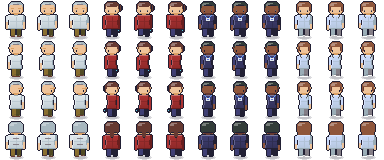
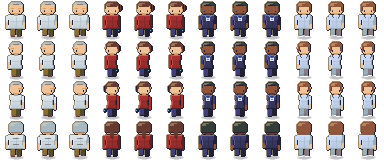
Hue-shift the shading and add selective outlining
Researched how real pixel-art games get a '3D' read without going isometric (which would
mean rebuilding the tile grid, collision math and every asset from scratch, and wasn't
what was actually broken here). Two techniques came up consistently: hue-shifted shading
ramps (shadows lean toward a cool colour, highlights toward a warm one, instead of sliding
straight to black/white) and selective outlining -- breaking the outline's flat dark
colour on the side facing the light. Neither was in use anywhere in this project; every
mix() call shaded toward literal (0,0,0)/(255,255,255), which is exactly what the sources
below call out as reading flat and plasticky.

Added shared shadow_tint/hilite_tint constants (a cool blue-violet and a warm cream) to
both generators and swapped every black/white shading target for them: character torso
falloff, hair sheen, eye catchlights, the key_light() ambient pass every prop already
runs through via standing(), the dado rail bevels, curtain highlights, and the back-wall
overlay's own copies of the same logic.

Selective outlining is the bigger visible change: Px.outline_alpha() (gen_characters.py)
now classifies each outline pixel by which side of the silhouette it borders -- upper-left
edges (facing the established key light) get a warmed, lightened outline tone; lower-right
edges keep the dark one. A flat outline reads as a sticker edge; a two-tone one reads as
[…]

diff --git a/scripts/gen_tileset.py b/scripts/gen_tileset.py
@@ -31,6 +31,12 @@ C = {
     'patient_hair':    (167, 183, 191),
     'patient_hair_lo': (132, 126, 135),
 
+    # Selective-outlining / hue-shift targets, matching gen_characters.py: shadows lean
+    # cool blue-violet, highlights lean warm cream, instead of sliding toward neutral
+    # black/white — a flat lerp-to-white/black is what reads as flat/plasticky.
+    'shadow_tint': (46, 48, 92),
+    'hilite_tint': (255, 226, 168),
+
     # Vinyl flooring — pale, desaturated, slightly green. Deliberately low contrast:
     # the floor is the largest surface on screen and must sit behind the characters.
     'floor':      (214, 226, 236),
@@ -167,9 +173,9 @@ class Tile:
                 if not solid(x, y):
                     continue
                 if not solid(x, y - 1) or not solid(x - 1, y):
-                    self.shade(x, y, (255, 255, 255), top)
+                    self.shade(x, y, C['hilite_tint'], top)
                 elif not solid(x, y + 1) or not solid(x + 1, y):
-                    self.shade(x, y, (40, 48, 52), bottom)
+                    self.shade(x, y, C['shadow_tint'], bottom)
 
     def frame(self, x0, y0, x1, y1, col):
         self.hline(x0, x1, y0, col)
@@ -241,9 +247,9 @@ def wall_lower(seed=2):
     own bevel (a lit top edge, a groove, a shadowed underside), not a single flat line.
     """
     t = Tile(C['wall'])
-    t.hline(0, TD - 1, 0, mix(C['dado'], (255, 255, 255), 0.35))   # rail: lit top edge
+    t.hline(0, TD - 1, 0, mix(C['dado'], C['hilite_tint'], 0.35))   # rail: lit top edge
     t.hline(0, TD - 1, 1, C['dado'])
-    t.hline(0, TD - 1, 2, mix(C['dado'], (0, 0, 0), 0.25))          # groove
+    t.hline(0, TD - 1, 2, mix(C['dado'], C['shadow_tint'], 0.35))          # groove
     t.hline(0, TD - 1, 3, C['wall_hi'])
     t.rect(0, 4, TD - 1, TD - 8, C['wall'])
     _wall_speckle(t, seed)
@@ -261,9 +267,9 @@ def wall_side(left=True, seed=3):
     """
     t = Tile(C['wall'])
     if left:
-        t.vline(TD - 1, 0, TD - 1, mix(C['dado'], (255, 255, 255), 0.35))
+        t.vline(TD - 1, 0, TD - 1, mix(C['dado'], C['hilite_tint'], 0.35))
         t.vline(TD - 2, 0, TD - 1, C['dado'])
-        t.vline(TD - 3, 0, TD - 1, mix(C['dado'], (0, 0, 0), 0.25))
+        t.vline(TD - 3, 0, TD - 1, mix(C['dado'], C['shadow_tint'], 0.35))
         t.vline(TD - 4, 0, TD - 1, C['wall_hi'])
         t.rect(TD - 9, 0, TD - 5, TD - 1, C['wall'])
         t.vline(TD - 10, 0, TD - 1, C['wall_lo'])
@@ -271,9 +277,9 @@ def wall_side(left=True, seed=3):
         t.vline(TD - 11, 0, TD - 1, C['skirt_hi'])
         t.vline(TD - 16, 0, TD - 1, (98, 108, 106))
     else:
-        t.vline(0, 0, TD - 1, mix(C['dado'], (255, 255, 255), 0.35))
+        t.vline(0, 0, TD - 1, mix(C['dado'], C['hilite_tint'], 0.35))
         t.vline(1, 0, TD - 1, C['dado'])
-        t.vline(2, 0, TD - 1, mix(C['dado'], (0, 0, 0), 0.25))
+        t.vline(2, 0, TD - 1, mix(C['dado'], C['shadow_tint'], 0.35))
         t.vline(3, 0, TD - 1, C['wall_hi'])
         t.rect(4, 0, 8, TD - 1, C['wall'])
         t.vline(9, 0, TD - 1, C['wall_lo'])
@@ -288,7 +294,7 @@ def curtain_rail():
     """Ceiling track the cubicle curtain hangs from, with hook fittings along it."""
     t = Tile(C['wall'])
     t.rect(0, 5, TD - 1, 8, C['rail'])
-    t.hline(0, TD - 1, 5, mix(C['rail'], (255, 255, 255), 0.3))
+    t.hline(0, TD - 1, 5, mix(C['rail'], C['hilite_tint'], 0.3))
     t.hline(0, TD - 1, 8, C['rail_lo'])
     for x in range(1, TD, 5):
         t.vline(x, 9, 11, C['rail_lo'])          # hook stems
@@ -339,7 +345,7 @@ def curtain(variant=0):
         y = rnd.randrange(3, TD - 3)
         if ramp[x] > 0.5:
             for dx, dy in ((0, -1), (0, 1), (-1, 0), (1, 0)):
-                t.set(x + dx, y + dy, mix(C['curt_hi'], (255, 255, 255), 0.5))
+                t.set(x + dx, y + dy, mix(C['curt_hi'], C['hilite_tint'], 0.5))
     # Mesh header panel, as real cubicle curtains have, brick-offset rather than a flat grid.
     for row, dy in enumerate((2, 4)):
         for x in range((row * 2) % 4, TD, 4):
@@ -482,7 +488,7 @@ def _bed_occupied():
         t = i / 34
         w = round(9 - 3 * t)
         rect(cx - w, y, cx + w, y, mix(C['blanket'], C['blanket_hi'], 0.25))
-        px[cx, y] = mix(C['blanket_hi'], (255, 255, 255), 0.12) + (255,)
+        px[cx, y] = mix(C['blanket_hi'], C['hilite_tint'], 0.12) + (255,)
     # Feet, tenting the blanket at the very end.
     oval(cx - 3, top + 33, 2, 3, C['blanket_lo'])
     oval(cx + 3, top + 33, 2, 3, C['blanket_lo'])
@@ -552,11 +558,11 @@ def monitor_screen():
     # Contact shadow on the wall behind, cast down and right like everything else.
     for i, a in enumerate((0.26, 0.16, 0.08)):
         for x in range(9 + i, 25 + i + 1):
-            t.shade(x, 32 - 1 - i if False else 31, (40, 48, 52), a)
-        t.shade(25 + i, 12 + i, (40, 48, 52), a)
+            t.shade(x, 31, C['shadow_tint'], a)
+        t.shade(25 + i, 12 + i, C['shadow_tint'], a)
     for y in range(13, 32):
-        t.shade(25, y, (40, 48, 52), 0.22)
-        t.shade(26, y + 1 if y + 1 < 32 else y, (40, 48, 52), 0.12)
+        t.shade(25, y, C['shadow_tint'], 0.22)
+        t.shade(26, y + 1 if y + 1 < 32 else y, C['shadow_tint'], 0.12)
     return t
 
 
@@ -624,7 +630,7 @@ def stool():
     """A round-topped clinical stool — padded seat on a single metal column and base."""
     t = Tile()
     t.rect(9, 9, 22, 17, C['blanket_dk'])       # padded seat, same red-leaning vinyl family
-    t.hline(9, 22, 9, mix(C['blanket_dk'], (255, 255, 255), 0.28))
+    t.hline(9, 22, 9, mix(C['blanket_dk'], C['hilite_tint'], 0.28))
     t.hline(9, 22, 17, (74, 16, 26))
     t.vline(15, 18, 25, C['metal'])
     t.vline(16, 18, 25, C['metal_lo'])
@@ -748,7 +754,7 @@ def floor_ao():
     t = floor(9)
     for i, a in enumerate((0.34, 0.24, 0.16, 0.09, 0.04)):
         for x in range(TD):
-            t.shade(x, i, (40, 48, 52), a)
+            t.shade(x, i, C['shadow_tint'], a)
     return t
 
 

diff --git a/scripts/gen_characters.py b/scripts/gen_characters.py
@@ -64,6 +64,11 @@ P = {
     'grey_hair_d': (132, 126, 135),
 }
 
+# Selective-outlining / hue-shift targets: shadows lean cool blue-violet, highlights lean
+# warm cream, rather than sliding every colour toward neutral black or white.
+SHADOW_TINT = (46, 48, 92)
+HILITE_TINT = (255, 226, 168)
+
 
 class Px:
     """A scratch frame with clipped plotting and region shifting."""
@@ -96,18 +101,34 @@ class Px:
         for (x, y), c in moved.items():
             self.set(x, y, c)
 
-    def outline_alpha(self, col, skip=()):
-        """1px dark keyline around the silhouette, so figures read against the floor."""
-        edge = set()
+    def outline_alpha(self, col, skip=(), col_lit=None):
+        """
+        1px keyline around the silhouette, so figures read against the floor.
+
+        Selective outlining ("selout"): where the keyline sits on the same side as the
+        key light — above or to the left of the shape it borders — it's drawn in a
+        lighter, warmer tone instead of the flat dark one. A uniform outline reads as a
+        hard sticker edge; softening just the lit side is what makes an outlined sprite
+        read as lit from a direction rather than just outlined.
+        """
+        # For each outline pixel, collect which side(s) of solid fill it borders. Key
+        # light is upper-left, so a pixel bordering fill on its left (-1,0) or top (0,-1)
+        # is on the lit side; one bordering fill on its right (1,0) or bottom (0,1) is on
+        # the shadow side. A corner pixel bordering both stays on the dark tone.
+        directions = {}
         for (x, y) in self.d:
             if (x, y) in skip:
                 continue
             for dx, dy in ((1, 0), (-1, 0), (0, 1), (0, -1)):
-                if (x + dx, y + dy) not in self.d:
-                    edge.add((x + dx, y + dy))
-        for (x, y) in edge:
-            if (x, y) not in skip:
-                self.set(x, y, col)
+                n = (x + dx, y + dy)
+                if n not in self.d:
+                    directions.setdefault(n, set()).add((dx, dy))
+        for (x, y), dirs in directions.items():
+            if (x, y) in skip:
+                continue
+            lit = any(d in ((-1, 0), (0, -1)) for d in dirs) and \
+                not any(d in ((1, 0), (0, 1)) for d in dirs)
+            self.set(x, y, col_lit if (lit and col_lit) else col)
 
     def to_image(self):
         img = Image.new('RGBA', (FRAME_W, FRAME_H), (0, 0, 0, 0))
@@ -207,10 +228,10 @@ def draw_torso(p, direction, garment, garment_d, build=0):
     for y in range(TORSO_TOP, TORSO_BOT + 1):
         h = torso_half(y, direction, build)
         p.set(CX - 1 + h, y, garment_d)
-        p.set(CX - h, y, mix(garment, (255, 255, 255), 0.18))
+        p.set(CX - h, y, mix(garment, HILITE_TINT, 0.18))
     # Shoulder highlight, waist crease and hem shadow.
     h = torso_half(TORSO_TOP, direction, build)
-    p.hline(CX - h + 1, CX - 2 + h, TORSO_TOP, mix(garment, (255, 255, 255), 0.3))
+    p.hline(CX - h + 1, CX - 2 + h, TORSO_TOP, mix(garment, HILITE_TINT, 0.3))
     waist_y = TORSO_TOP + round(span * 0.5)
     h = torso_half(waist_y, direction, build)
     p.hline(CX - h + 1, CX - 2 + h, waist_y, mix(garment, garment_d, 0.5))
@@ -275,8 +296,8 @@ def draw_face(p, direction, skin_s, eye=None, brow=False):
     if direction == 'down':
         p.vline(12, ey, ey + 1, eye)
         p.vline(19, ey, ey + 1, eye)
-        p.set(12, ey, mix(eye, (255, 255, 255), 0.35))
-        p.set(19, ey, mix(eye, (255, 255, 255), 0.35))
+        p.set(12, ey, mix(eye, HILITE_TINT, 0.35))
+        p.set(19, ey, mix(eye, HILITE_TINT, 0.35))
         p.hline(15, 16, ey + 4, skin_s)          # mouth
         if brow:
             p.hline(11, 13, ey - 2, skin_s)
@@ -369,7 +390,7 @@ def draw_hair(p, direction, style, hair, hair_d, wide=0):
 
 def hair_highlight(p, direction, hair):
     """A sheen across the upper-left of the hair mass, so it reads as a rounded head."""
-    lit = mix(hair, (255, 255, 255), 0.34)
+    lit = mix(hair, HILITE_TINT, 0.34)
     for y in range(HEAD_TOP + 1, HEAD_TOP + 4):
         h = head_half(y, direction)
         for x in range(CX - h + 1, CX - h + 5):
@@ -511,8 +532,8 @@ def key_light(p, skip):
             lit.append((x, y))
         elif (x, y + 1) not in solid or (x + 1, y) not in solid:
             shaded.append((x, y))
-    for (x, y), col, a in [(c, (255, 255, 255), 0.22) for c in lit] + \
-                          [(c, (40, 48, 52), 0.20) for c in shaded]:
+    for (x, y), col, a in [(c, HILITE_TINT, 0.22) for c in lit] + \
+                          [(c, SHADOW_TINT, 0.20) for c in shaded]:
         base = p.d[(x, y)][:3]
         p.set(x, y, tuple(round(b + (c - b) * a) for b, c in zip(base, col)))
 
@@ -535,7 +556,7 @@ def build_frame(spec, direction, frame):
     draw_face(p, direction, spec['skin_s'], brow=spec.get('brow', False))
     draw_accessory(p, spec['accessory'], direction, spec['build'])
 
-    p.outline_alpha(P['outline'], skip=shadow)
+    p.outline_alpha(P['outline'], skip=shadow, col_lit=mix(P['outline'], HILITE_TINT, 0.4))
     key_light(p, shadow)
     return p.to_image()
 

diff --git a/scripts/gen_backwall.py b/scripts/gen_backwall.py
@@ -37,6 +37,8 @@ TOP_H, MID_H, KICK_H = TD, TD, 8
 H = TOP_H + MID_H + KICK_H
 
 C = {
+    'shadow_tint': (46, 48, 92),
+    'hilite_tint': (255, 226, 168),
     'wall_hi':    (255, 250, 238),
     'wall':       (248, 240, 222),
     'wall_lo':    (226, 214, 190),
@@ -115,9 +117,9 @@ def base_wall(cv):
     _speckle(cv, 0, 0, W - 1, TOP_H - 1, seed=21)
 
     y0 = TOP_H
-    cv.hline(0, W - 1, y0, mix(C['dado'], (255, 255, 255), 0.35))
+    cv.hline(0, W - 1, y0, mix(C['dado'], C['hilite_tint'], 0.35))
     cv.hline(0, W - 1, y0 + 1, C['dado'])
-    cv.hline(0, W - 1, y0 + 2, mix(C['dado'], (0, 0, 0), 0.25))
+    cv.hline(0, W - 1, y0 + 2, mix(C['dado'], C['shadow_tint'], 0.35))
     cv.hline(0, W - 1, y0 + 3, C['wall_hi'])
     cv.rect(0, y0 + 4, W - 1, y0 + MID_H - 8, C['wall'])
     _speckle(cv, 0, y0 + 4, W - 1, y0 + MID_H - 8, seed=22)
@@ -130,7 +132,7 @@ def base_wall(cv):
     ky0 = TOP_H + MID_H
     for i in range(KICK_H):
         t = i / max(1, KICK_H - 1)
-        shade = tuple(round(a + (b - a) * t) for a, b in zip(C['skirt_lo'], (44, 52, 54)))
+        shade = tuple(round(a + (b - a) * t) for a, b in zip(C['skirt_lo'], C['shadow_tint']))
         cv.hline(0, W - 1, ky0 + i, shade)
     cv.hline(0, W - 1, ky0, C['skirt_lo'])
 
